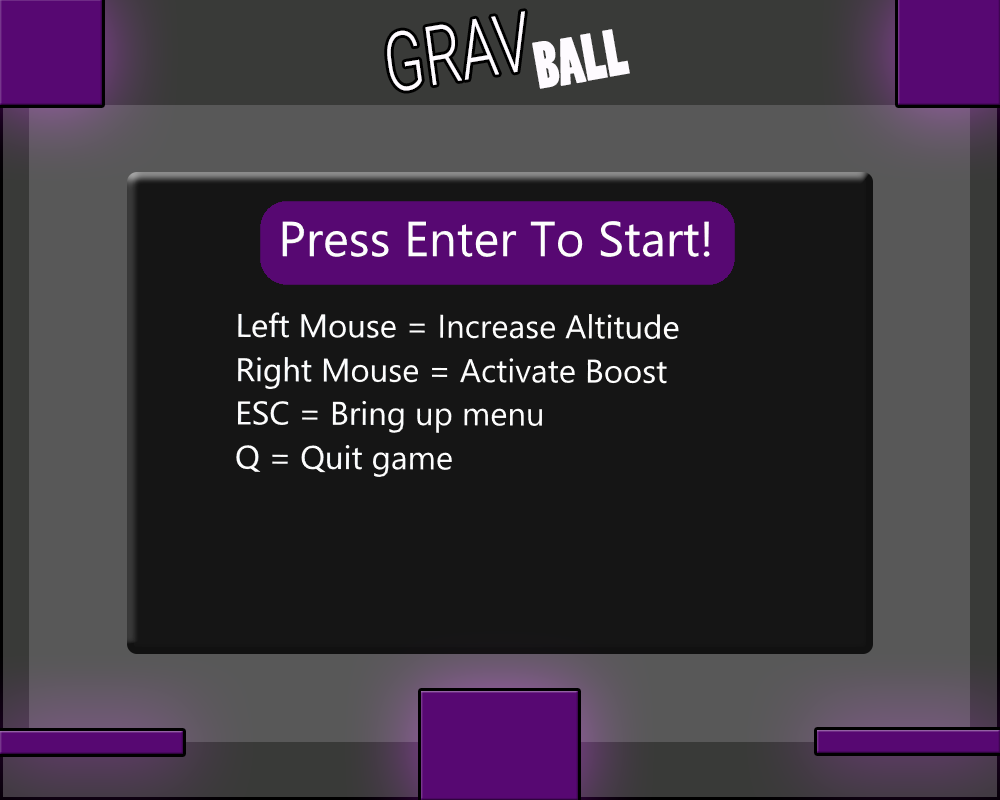
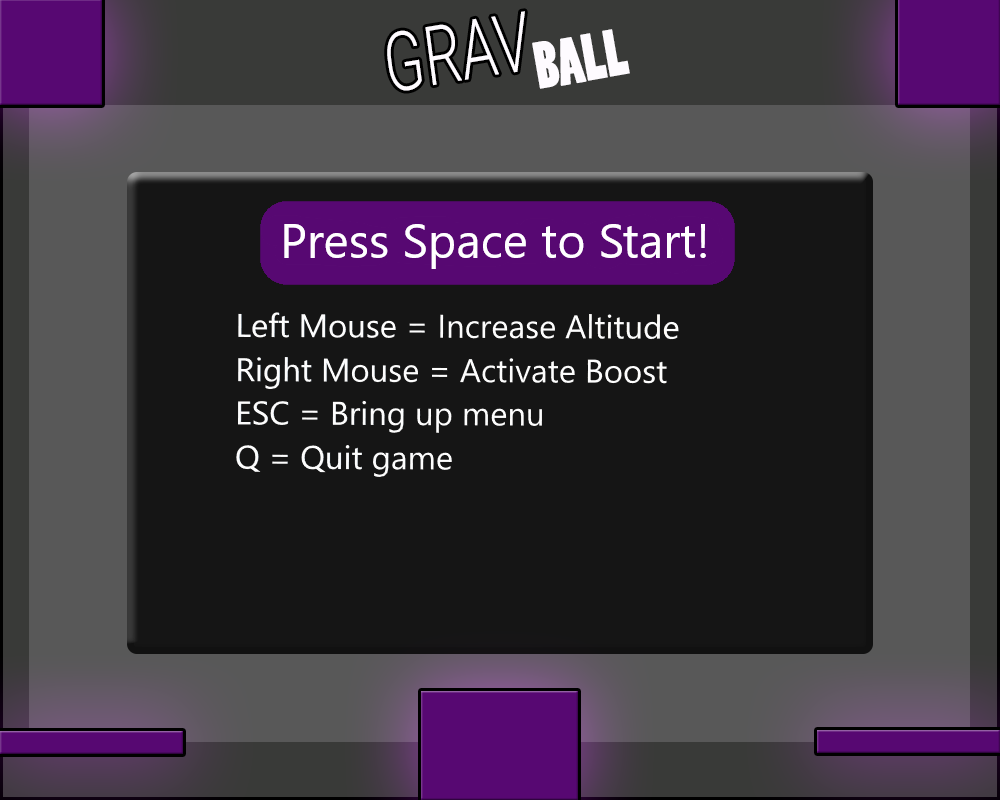
Fixed level splash menu

Changed region(s): [[0.279, 0.25, 0.713, 0.3438]]

diff --git a/PortalEngine/PortalWorld.cpp b/PortalEngine/PortalWorld.cpp
@@ -101,7 +101,7 @@ void PortalWorld::Display()
 	}
 	else
 	{
-		DisplayLevelSplash();
+		DisplayLevelSplash(); // displays screen with controls at the start of the level
 	}
 
 	DisplayLevel();
@@ -376,7 +376,6 @@ void PortalWorld::DisplayExitScreen()
 	glPopMatrix();
 	glMatrixMode(GL_MODELVIEW);
 	glPopMatrix();
-
 }
 
 void PortalWorld::DisplayLevelSplash()
@@ -425,8 +424,6 @@ void PortalWorld::DisplayLevel()
 	glTranslatef(width / 2 - 256.0f, -height / 2 - 256.0f, 0);
 	glMatrixMode(GL_MODELVIEW);
 	glLoadIdentity();
-
-	
 
 	glTranslatef(-256, -100, 0);
 	glScalef(2, 2, 0);
